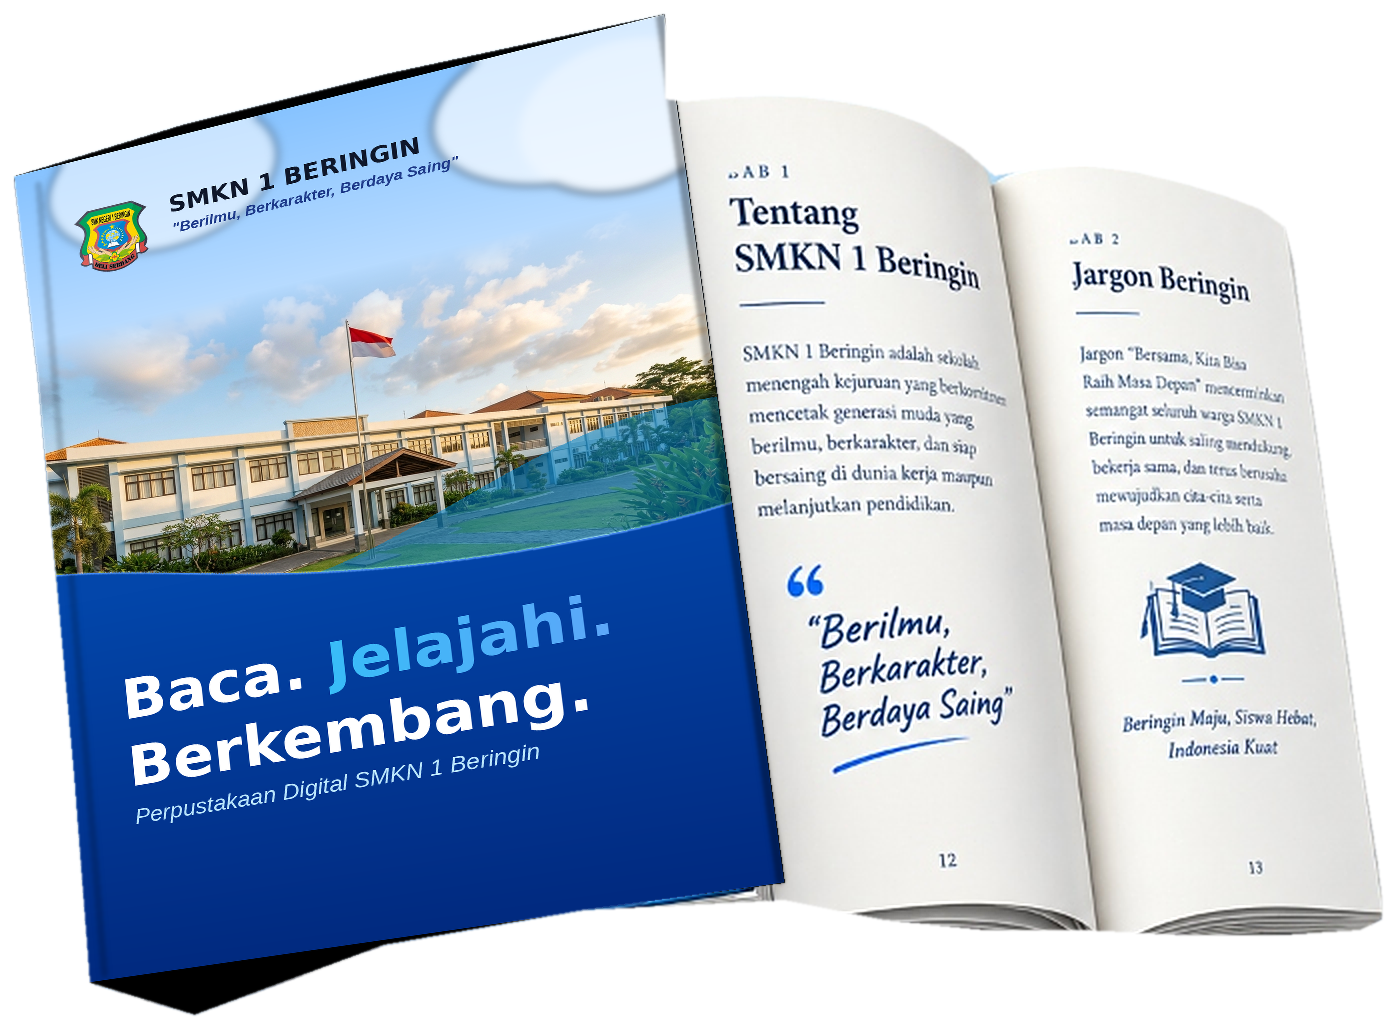
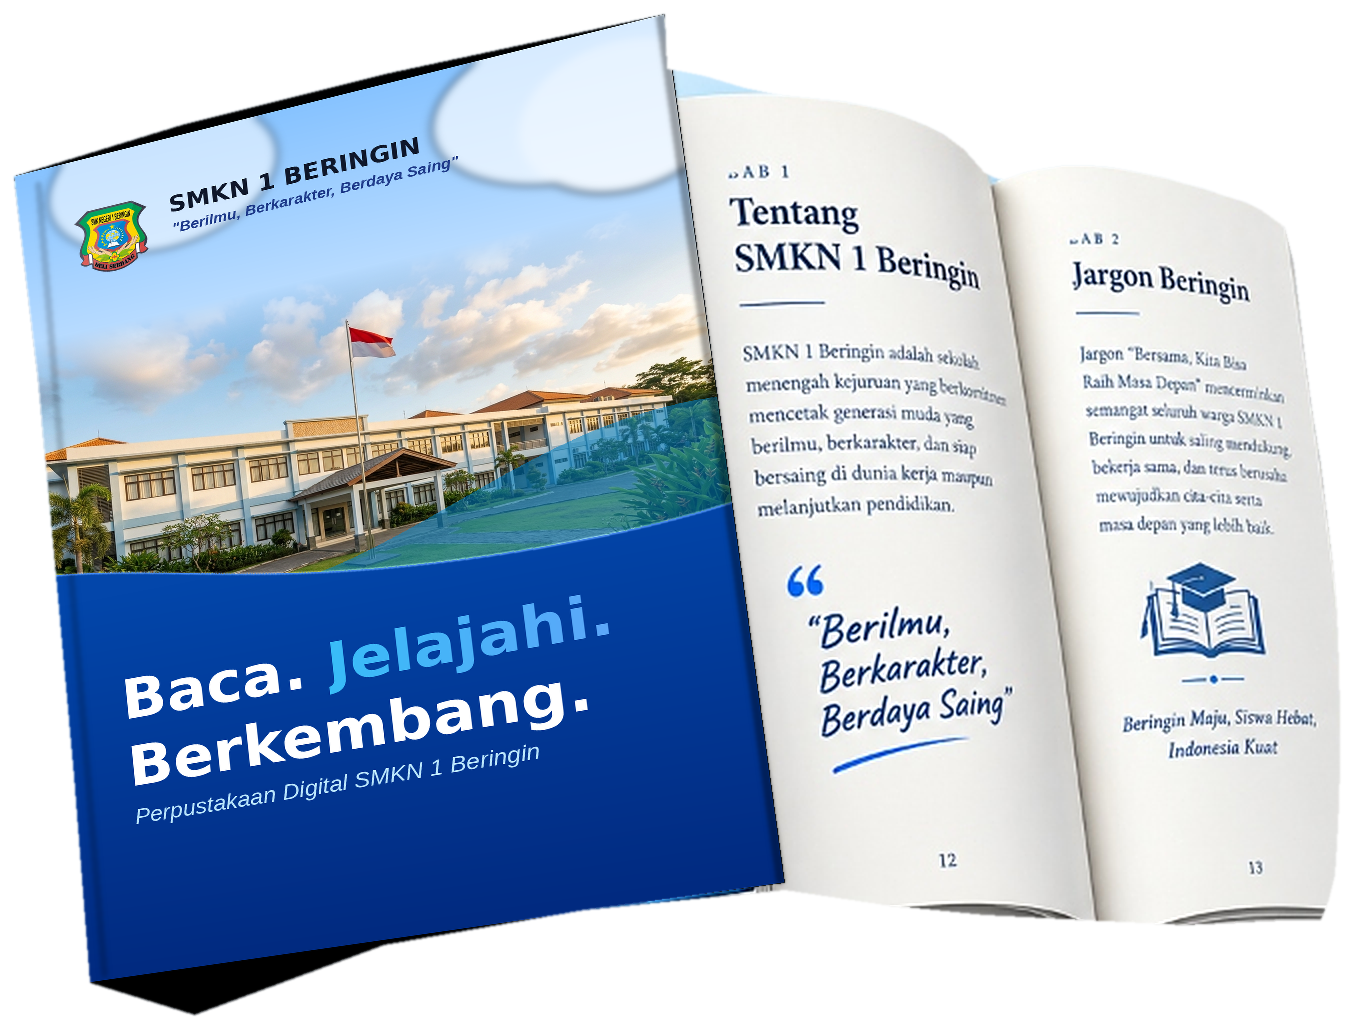
fix(showcase): poles sempurna buku 3D bebas gumpalan bawah, headroom BAB 1-2 alami, dan defringing inpaint antialias

diff --git a/components/katalog/HeroShowcaseSection.tsx b/components/katalog/HeroShowcaseSection.tsx
@@ -143,9 +143,9 @@ export default function HeroShowcaseSection({
         {/* ─── MOBILE LAYOUT (<1024px) ─── */}
         <div className="lg:hidden flex flex-col items-center gap-5 w-full">
           {/* Mobile Open Book Preview - Well proportioned */}
-          <div className="relative w-full max-w-[380px] sm:max-w-[440px] aspect-[1395/1028] flex items-center justify-center my-1 drop-shadow-2xl">
+          <div className="relative w-full max-w-[380px] sm:max-w-[440px] aspect-[1353/1028] flex items-center justify-center my-1 drop-shadow-2xl">
             <img
-              src="/assets/showcase/buku-3d-open-beringin.png?v=6.0"
+              src="/assets/showcase/buku-3d-open-beringin.png?v=7.0"
               alt="Buku Profil SMKN 1 Beringin"
               className="w-full h-full object-contain select-none pointer-events-none"
               draggable={false}
@@ -260,7 +260,7 @@ export default function HeroShowcaseSection({
               >
                 {/* Clean transparent 3D open book featuring real SMKN 1 Beringin building & logo */}
                 <img
-                  src="/assets/showcase/buku-3d-open-beringin.png?v=6.0"
+                  src="/assets/showcase/buku-3d-open-beringin.png?v=7.0"
                   alt="Buku Profil Perpustakaan SMKN 1 Beringin"
                   className="w-full h-auto object-contain select-none pointer-events-none drop-shadow-2xl"
                   draggable={false}

diff --git a/scripts/generate-book-showcase.py b/scripts/generate-book-showcase.py
@@ -257,8 +257,8 @@ def main():
     # - Kontur atas Halaman 1 & 2 presisi mengikuti lekukan kertas asli murni (sky dome dihilangkan)
     # - Di bawah logo pill mengambang (kartu logo dihilangkan 100%)
     # - Sisi kanan buku melengkung anggun mengikuti kontur halaman 2 dan tumpukan kertas asli
-    # - Tanpa bocoran teks banner kanan (huruf terpotong R, K, d, b)
-    # - Bawah buku lega di bawah nomor halaman 12 dan 13 serta bevel bawah 3D
+    # - Tanpa bocoran teks banner kanan (huruf terpotong R, K, d, b dihilangkan 100%)
+    # - Bawah buku lega di bawah nomor halaman 12 dan 13 serta bebas gumpalan abu-abu/mound
     book_poly_2x = np.array([
         # 1. Puncak Spine & Garis Atas Cover Depan
         [30, 312],
@@ -268,23 +268,39 @@ def main():
         [680, 150],     # Puncak cover depan pada engsel
 
         # 2. Engsel ke Atas Halaman 1 (Paper Block Margin Asli)
-        [680, 235],
-        [700, 238],
-        [740, 234],
-        [780, 232],
-        [820, 233],
+        [682, 205],
+        [700, 208],
+        [720, 212],
+        [740, 218],
+        [760, 224],
+        [780, 228],
+        [800, 232],
+        [820, 234],
+        [840, 236],
         [860, 238],
+        [880, 242],
         [900, 246],
+        [920, 253],
         [940, 261],
+        [960, 271],
         [980, 286],
-        [1010, 312],    # Lembah antara Halaman 1 dan 2
+        [1000, 309],
+        [1010, 314],
+        [1020, 316],    # Lembah antara Halaman 1 dan 2
 
         # 3. Puncak Lengkungan Atas Halaman 2 (BAB 2) - Di Bawah Logo Pill!
-        [1050, 306],
+        [1040, 309],
+        [1060, 305],
+        [1080, 302],
         [1100, 302],    # Puncak Halaman 2
-        [1150, 308],
+        [1120, 303],
+        [1140, 306],
+        [1160, 310],
+        [1180, 314],
         [1200, 320],
+        [1220, 325],
         [1240, 332],
+        [1260, 338],
         [1275, 345],
         [1300, 363],    # Sudut kanan atas Halaman 2
 
@@ -292,27 +308,27 @@ def main():
         [1309, 400],
         [1315, 450],
         [1321, 500],
-        [1329, 550],
+        [1328, 550],
         [1336, 600],
         [1342, 650],
-        [1350, 700],
-        [1357, 750],
-        [1364, 800],
-        [1370, 850],
-        [1377, 900],
-        [1385, 950],
-        [1393, 1000],
-        [1397, 1035],
-        [1397, 1055],   # Sudut kanan bawah tumpukan kertas (nomor 13 utuh)
+        [1348, 700],
+        [1352, 750],
+        [1354, 800],
+        [1355, 850],
+        [1355, 900],
+        [1354, 940],
+        [1352, 980],
+        [1350, 1010],
+        [1344, 1035],
+        [1336, 1055],   # Sudut kanan bawah tumpukan kertas (nomor 13 utuh, bebas teks banner)
 
-        # 5. Garis Bawah Halaman 2 & 1 (Lega di bawah nomor 13 & 12)
-        [1375, 1065],
-        [1300, 1070],
-        [1200, 1070],
-        [1100, 1065],
-        [1000, 1065],
-        [900, 1055],
-        [800, 1035],    # Dasar engsel tengah
+        # 5. Garis Bawah Halaman 2 & 1 (Lega di bawah nomor 13 & 12, bebas gumpalan abu-abu)
+        [1300, 1055],
+        [1200, 1060],
+        [1100, 1055],
+        [1000, 1050],
+        [900, 1040],
+        [800, 1025],    # Dasar engsel tengah
 
         # 6. Garis Bawah Cover Depan & Bevel 3D
         [600, 1045],
@@ -330,11 +346,17 @@ def main():
     poly_mask = np.zeros((bh, bw), dtype=np.uint8)
     cv2.fillPoly(poly_mask, [book_poly_2x], 255)
 
+    # Inpaint / clamp warna tepi luar sejauh 4px agar transisi antialiasing 100% murni
+    # dari warna asli buku (bebas kontaminasi langit biru atau meja cokelat)
+    dilated_mask = cv2.dilate(poly_mask, np.ones((7, 7), np.uint8))
+    border_fringe_mask = cv2.bitwise_and(dilated_mask, cv2.bitwise_not(poly_mask))
+    clean_composite = cv2.inpaint(composite, border_fringe_mask, 4, cv2.INPAINT_TELEA)
+
     # Antialiasing gaussian sub-pixel presisi
     smooth_alpha = cv2.GaussianBlur(poly_mask.astype(np.float32), (5, 5), 1.0)
 
-    # Gabungkan composite BGR dengan alpha channel murni
-    b_ch, g_ch, r_ch = cv2.split(composite)
+    # Gabungkan composite bersih dengan alpha channel murni
+    b_ch, g_ch, r_ch = cv2.split(clean_composite)
     rgba = cv2.merge([b_ch, g_ch, r_ch, smooth_alpha.astype(np.uint8)])
 
     # Crop presisi ke bounding box non-transparan
